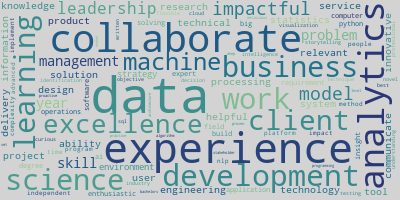
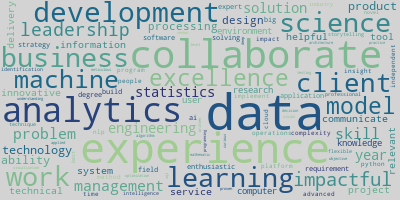
parsed the next 125 csvs for parsing

diff --git a/nlp_main.py b/nlp_main.py
@@ -1646,6 +1646,7 @@ def clean_terms_for_nlp(series_of_interest):
                   'develops': 'development',
                   'developer': 'development',
                   'developing': 'development',
+                  'devopsfocused': 'devops',
                   'devsecops': 'devops',
                   'hardworking': 'diligent',
                   'hard': 'diligent',
@@ -2041,6 +2042,7 @@ def clean_terms_for_nlp(series_of_interest):
                   'prototype': 'prototyping',
                   'fluency': 'proven',
                   'fluent': 'proven',
+                  'fluently': 'proven',
                   'record': 'proven',
                   'python3': 'python',
                   'pythonbased': 'python',
@@ -2066,6 +2068,7 @@ def clean_terms_for_nlp(series_of_interest):
                   'reliability': 'reliable',
                   'repeatability': 'repeatable',
                   'researcher': 'research',
+                  'fortitude': 'resilient',
                   'persistent': 'resilient',
                   'persistence': 'resilient',
                   'resilience': 'resilient',
@@ -2131,6 +2134,7 @@ def clean_terms_for_nlp(series_of_interest):
                   'statisticalmachine': 'statistics machine',
                   'statisticalml': 'statistics machine learning',
                   'statisticalmathematical': 'statistics mathematics',
+                  'stochasticprocesses': 'stochastic',
                   'present': 'storytelling',
                   'presentation': 'storytelling',
                   'storyboarding': 'storytelling',
@@ -4794,7 +4798,7 @@ def parse_new_data(terms_for_nlp, ds_skills_combined, term_fixes):
     
     # Step 4: count the volume of n-grams from the job_description field and the given range
     n_gram_count = 1
-    n_gram_range_start, n_gram_range_stop  = 0, 100
+    n_gram_range_start, n_gram_range_stop  = 100, 300
     n_grams = nlp_count_n_grams(new_terms_for_nlp, n_gram_count, n_gram_range_start, n_gram_range_stop)
     
     # Step 5: Print in convenient form for addition to additional_stopword list
